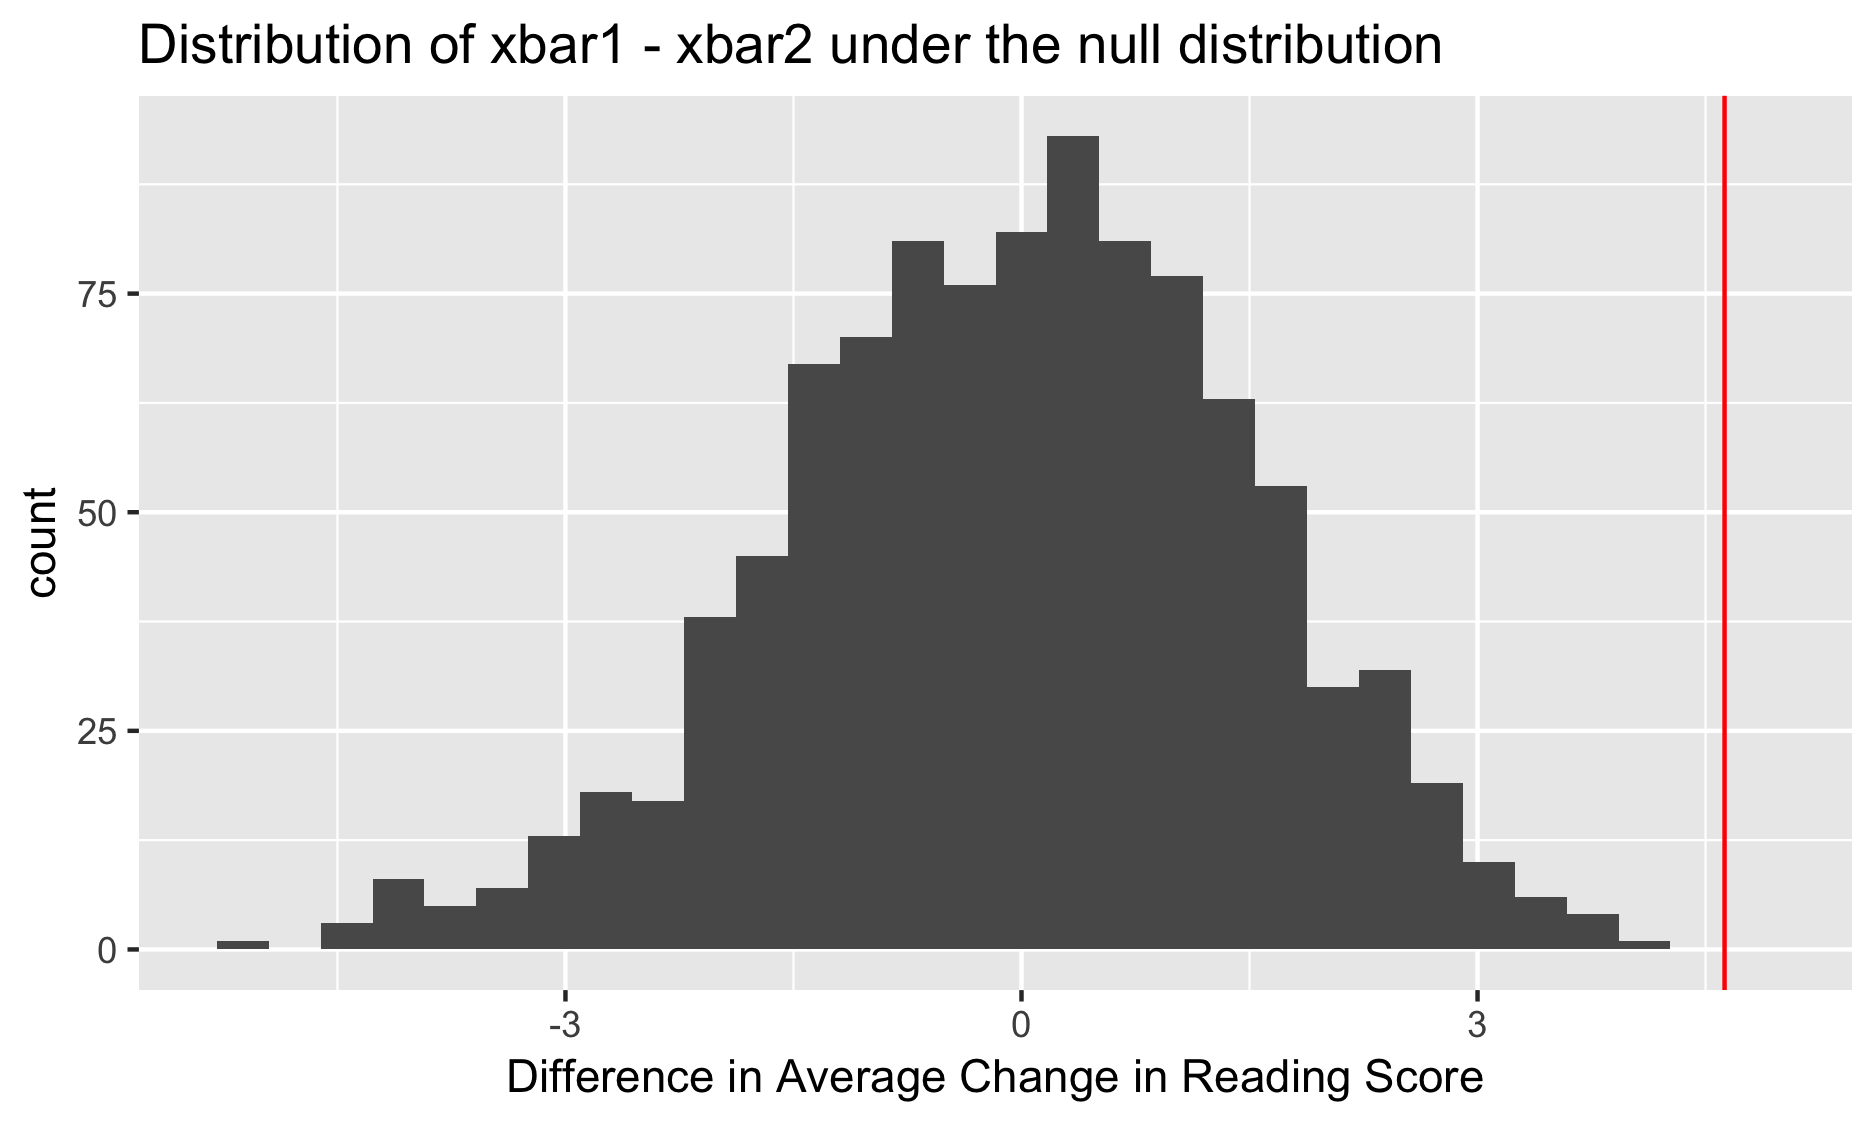
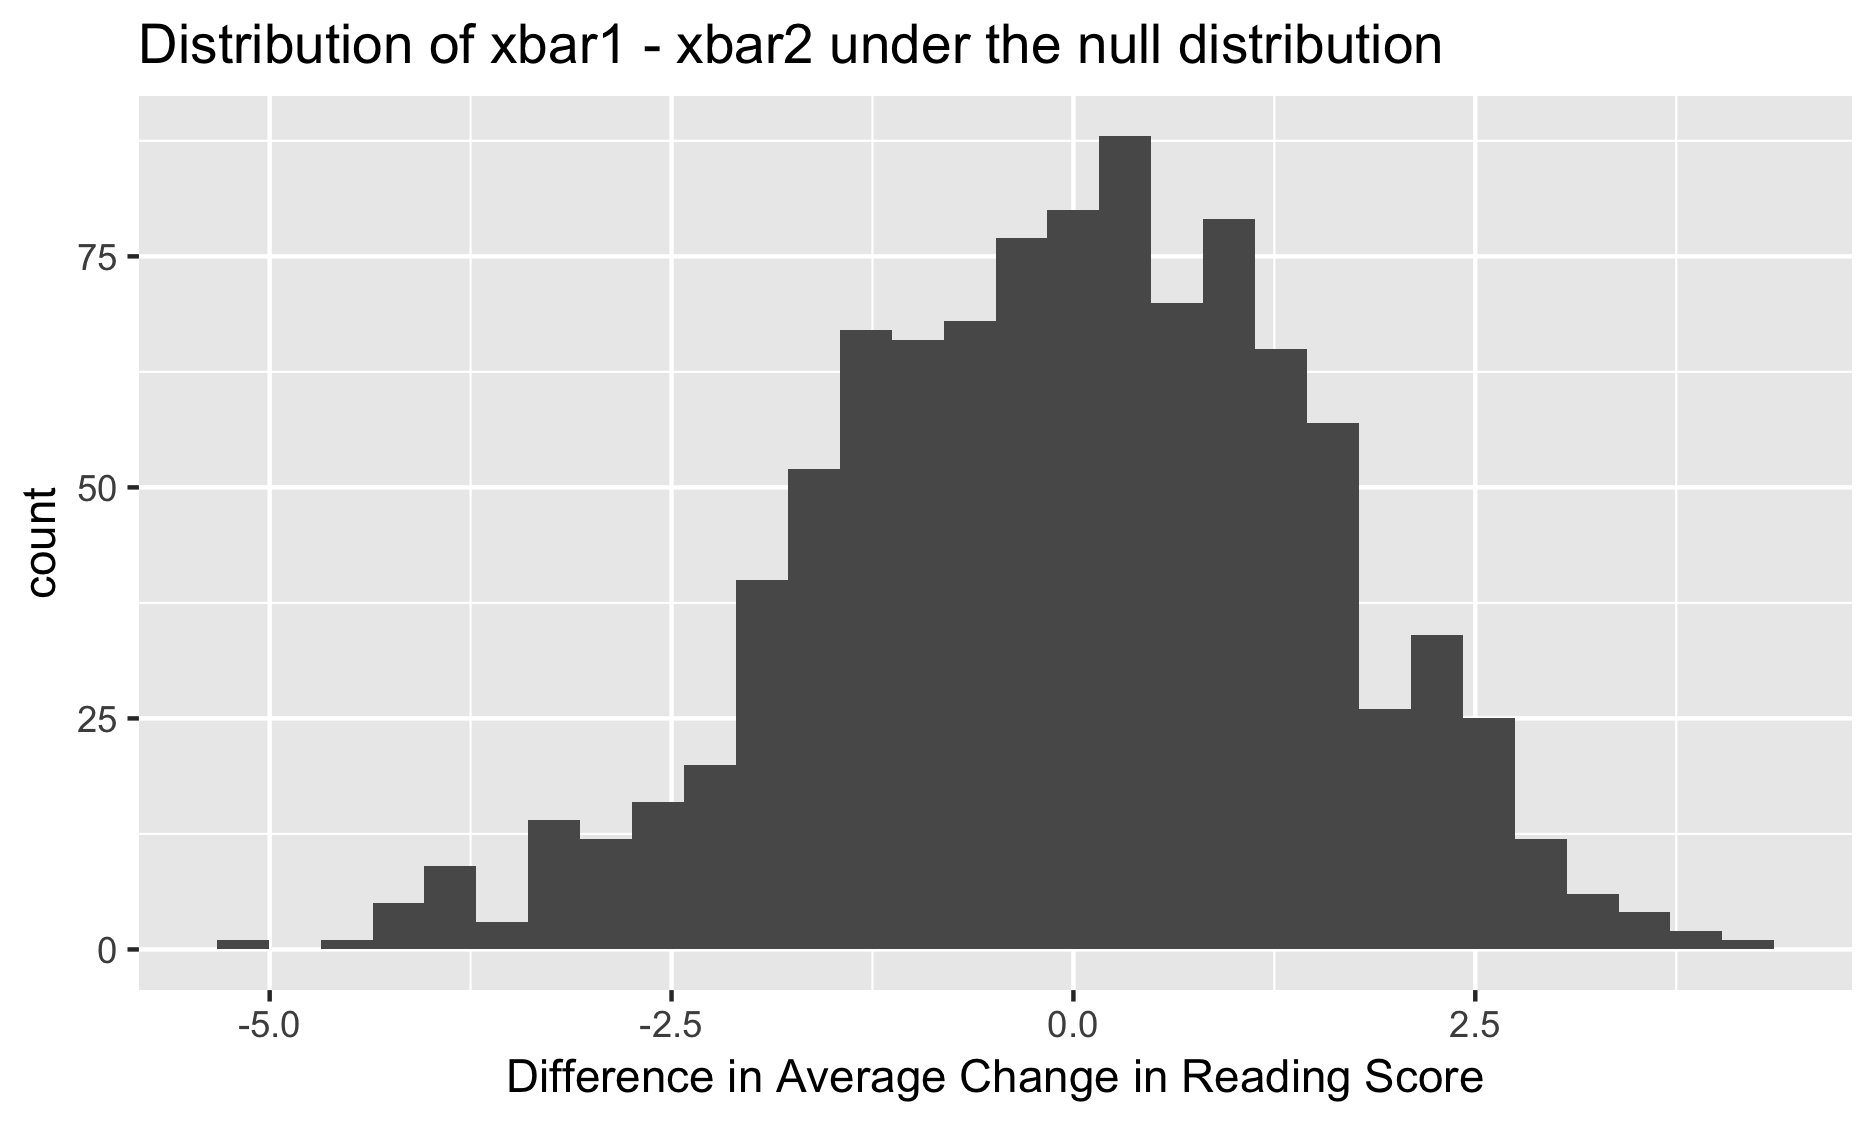
add sesame street picture

diff --git a/docs/slides/lec-slides/01-inf-review-pt1.html b/docs/slides/lec-slides/01-inf-review-pt1.html
@@ -58,6 +58,7 @@ class: middle, center
 
 - The show originally had a particular focus on reaching economically disadvantaged children. In the early 1970s, the Educational Testing Service (ETS) conducted a study to determine the show's effectiveness in helping this group of children develop the skills needed to be successful in school. 
 
+&lt;img src="img/01/sesame_street.jpg" width="50%" style="display: block; margin: auto;" /&gt;
 ---
 
 ## *Sesame Street*
@@ -112,7 +113,7 @@ ggplot(data = sesame_street, mapping = aes(y = change, x = treatment)) +
   theme_minimal()
 ```
 
-&lt;img src="01-inf-review-pt1_files/figure-html/unnamed-chunk-4-1.png" style="display: block; margin: auto;" /&gt;
+&lt;img src="01-inf-review-pt1_files/figure-html/unnamed-chunk-5-1.png" style="display: block; margin: auto;" /&gt;
 &lt;/small&gt;
 
 
@@ -257,13 +258,13 @@ $$
 
 
 
-&lt;img src="01-inf-review-pt1_files/figure-html/unnamed-chunk-7-1.png" style="display: block; margin: auto;" /&gt;
+&lt;img src="01-inf-review-pt1_files/figure-html/unnamed-chunk-8-1.png" style="display: block; margin: auto;" /&gt;
 
 ---
 
 In our actual data, we observed a difference of **12.5 - 7.875 = 4.625**
 
-&lt;img src="01-inf-review-pt1_files/figure-html/unnamed-chunk-8-1.png" style="display: block; margin: auto;" /&gt;
+&lt;img src="01-inf-review-pt1_files/figure-html/unnamed-chunk-9-1.png" style="display: block; margin: auto;" /&gt;
 
 .question[
 What proportion of the 1000 observations yielded values of `\(\bar{x}_e - \bar{x}_{ne}\)` as or more extreme as the value we observed in the data?
@@ -271,7 +272,7 @@ What proportion of the 1000 observations yielded values of `\(\bar{x}_e - \bar{x
 
 ---
 
-&lt;img src="01-inf-review-pt1_files/figure-html/unnamed-chunk-9-1.png" style="display: block; margin: auto;" /&gt;
+&lt;img src="01-inf-review-pt1_files/figure-html/unnamed-chunk-10-1.png" style="display: block; margin: auto;" /&gt;
 
 .question[
 What is your conclusion about the effectiveness of *Sesame Street* in helping students improve their reading skis?
@@ -436,7 +437,7 @@ $$ \frac{\text{observed value} - \text{hypothesized value}}{SE}$$
 
 *t* distribution with approximately 173.59 degrees of freedom. 
 
-&lt;img src="01-inf-review-pt1_files/figure-html/unnamed-chunk-14-1.png" style="display: block; margin: auto;" /&gt;
+&lt;img src="01-inf-review-pt1_files/figure-html/unnamed-chunk-15-1.png" style="display: block; margin: auto;" /&gt;
 
 ---
 
